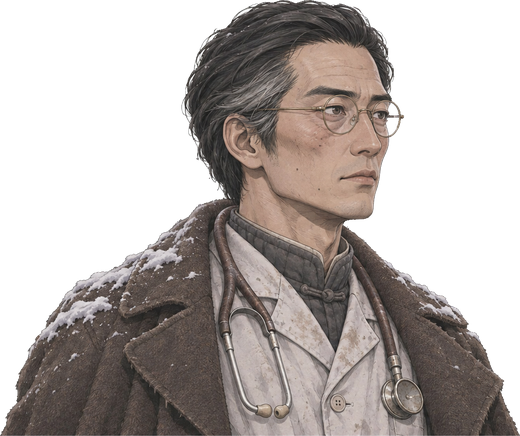
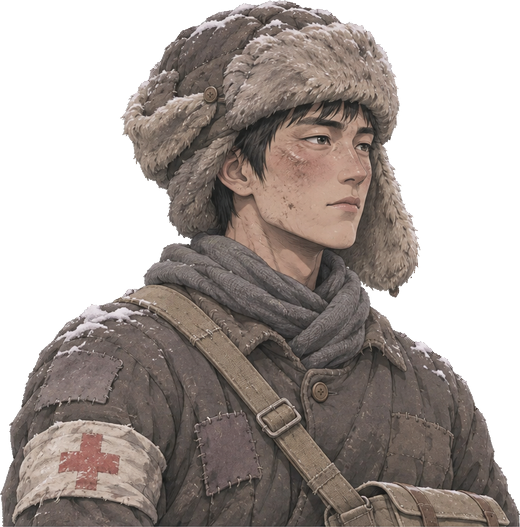
第二、三章的休息/商店/事件/宝箱背景换成各章自己的场景；第二、三章结尾插画；真结局插画和参谋两形态的图先入库；手榴弹图标重画；金永哲立绘改成 25 岁卫生员，诊所事件文字和图鉴对齐
Claude-Session: https://claude.ai/code/session_015MetZnK2ffi84fWjnTuGS9

diff --git a/src/game.js b/src/game.js
@@ -369,7 +369,7 @@ const INTRO = [
   { img: 'assets/story/s2_camp.jpg', t: '辗转月余，到了吉东山地，接上了密营。灶火边，老沈摊开手绘的地图：最终目标是长春——伪满洲国所谓的「新京」，关东军司令部就在那里。' },
   { img: 'assets/story/s3_depart.jpg', t: '下一程，向长白山北麓的林海雪原转进。日伪讨伐队正在搜山。神枪手韩松，代号「雪貂」，走在队伍最前面。' }];
 /* 各章结尾的插画（第一章：沿着铁路向新京去） */
-const OUTRO = { 1: 'assets/story/s4_south.jpg' };
+const OUTRO = { 1: 'assets/story/s4_south.jpg', 2: 'assets/story/s5_drain.jpg', 3: 'assets/story/s6_up.jpg' }; /* 真结局用 s7_dawn.jpg（真结局还没写） */
 /* 战役总图：开局和每章结束时显示。地名用代码叠在图上（不让 AI 画字） */
 const CAMP = [{ n: '第一章 · 林海雪原', t: '1944 年冬', x: 69.4, y: 39.1 }, { n: '第二章 · 新京', t: '1945 年春', x: 39.7, y: 70.7 }, { n: '第三章 · 地下', t: '1945 年 8 月', x: 32.7, y: 71 }];
 function campaign(ch, done, note) {
@@ -524,7 +524,7 @@ const BOSS_TALK = {
   captain: [['boss', '（日语）雪地上的脚印骗不了人。你们这些「匪贼」，今天一个也走不掉。'], ['hero', '我们不是匪。'], ['hero', '这片林子，是我们的。']],
   kcap: [['boss', '（日语）你们走过的每个屯子，我都去过了。总有人会开口。'], ['boss', '——把狗放出去。'], ['hero', '那你也该听说了：我们从来不跑。']],
 };
-const LIHUI = { captain: 'assets/portraits/captain_lihui.png', priest: 'assets/portraits/priest_lihui.png', kirino: 'assets/portraits/kirino_lihui.png', kuga: 'assets/portraits/kuga_lihui.png' };
+const LIHUI = { captain: 'assets/portraits/captain_lihui.png', priest: 'assets/portraits/priest_lihui.png', kirino: 'assets/portraits/kirino_lihui.png', kuga: 'assets/portraits/kuga_lihui.png', staff: 'assets/portraits/staff_lihui.png' };
 /* 第二章首领的开战对白 */
 Object.assign(BOSS_TALK, {
   kirino: [['boss', '（日语）新京有四十万人。每一个人，我都可以叫来问话。'], ['boss', '——你们，也不例外。'], ['hero', '那你问吧。'], ['hero', '我只会说一句：这是中国的地方。']],
@@ -916,7 +916,7 @@ function lootScreen() {
   const P = R.pending;
   if (!P || P.t !== 'loot') return mapScreen();
   if (P.relic) { gainRelic(P.relic, 1); P.relicShown = P.relic; delete P.relic; } if (P.item) { if (R.items.length < ITEM_SLOTS) { R.items.push(P.item); see('i:' + P.item); teach('item'); } P.itemShown = P.item; delete P.item; } save();
-  view.innerHTML = `<div class="bg ${P.kind === 'boss' ? 'ev' : 'battle dim'}"></div>${topBar()}`; bindTop();
+  view.innerHTML = `<div class="bg ${P.kind === 'boss' ? 'ev ch' + CH().id : 'battle dim'}"></div>${topBar()}`; bindTop();
   if (P.cards) {
     view.insertAdjacentHTML('beforeend', `<div class="panel loot"><h2>${P.kind === 'boss' ? (SUS() ? '打垮了追捕！' : '击溃了讨伐队！') : P.kind === 'elite' ? '打退了精英！' : '战斗胜利'}</h2>
      <p>缴获口粮 +${P.food || 1}${P.strong ? (P.intel ? (SUS() ? '　📜 抢下了公文包，得到一份情报' : '　📜 抢下了档案箱，得到一份情报') : (SUS() ? '　公文包被带走了，这份情报没拿到' : '　档案箱被带走了，这份情报没拿到')) : ''}${P.sus ? `　🕵 枪声惊动了巡警：可疑度 +${P.sus[0]}${P.sus[1] ? `（开了 ${P.sus[1]} 枪）` : ''}` : ''}</p>${P.relicShown ? `<p class="gain">得到随身物品：${RELICS[P.relicShown].icon} <b>${RELICS[P.relicShown].name}</b>　<small>${RELICS[P.relicShown].desc}</small></p>` : ''}${P.itemShown ? `<p class="gain">缴获背包用品：${ITEMS[P.itemShown].icon} <b>${ITEMS[P.itemShown].name}</b>${R.items.includes(P.itemShown) ? '' : '（背包满了，没拿）'}</p>` : ''}<p class="sub">${P.kind === 'boss' ? '选一张稀有牌加入牌组：' : '选一张牌加入牌组：'}</p><div class="row">${P.cards.map((c, i) => cardHTML(c, '', `data-k="${i}"`)).join('')}</div>
@@ -942,7 +942,7 @@ function offerLoot(id, done) {
 function restScreen() {
   teach('rest');
   R.temp = TEMP_MAX; if (SUS()) R.sus = 0; if (SAN() && !R.pending.sanDone) { addSan(3); R.pending.sanDone = 1; } save(); const heal = Math.floor(R.maxHp * .3) + rsum('restHeal'); refreshScreen = restScreen;
-  view.innerHTML = `<div class="bg rest"></div>${topBar()}<div class="panel"><h2>${placeName('rest')}</h2><p>${placeText('rest', '林子深处的地窨子，灶里的火压得很低。体温回满了。')}</p>
+  view.innerHTML = `<div class="bg rest ch${CH().id}"></div>${topBar()}<div class="panel"><h2>${placeName('rest')}</h2><p>${placeText('rest', '林子深处的地窨子，灶里的火压得很低。体温回满了。')}</p>
     <div class="col"><button class="btn" id="r_heal">休息：回复 ${heal} 生命</button><button class="btn" id="r_up">擦枪：升级 1 张牌</button></div></div>`;
   bindTop();
   $('#r_heal').onclick = () => { R.hp = Math.min(R.maxHp, R.hp + heal); mapScreen(); };
@@ -976,7 +976,7 @@ function eventScreen(force) {
     san: n => { addSan(n); sanN += n; }, curse: () => { R.deck.push(mk('it_curse')); see('c:it_curse'); }, lure: n => { R.lure = (R.lure || 0) + n; },
     they: (n, f, fin) => they(n, f, fin), aweN: () => R.awe || 0, say: () => {} };
   const draw = () => {
-    view.innerHTML = `<div class="bg ev"></div>${ev.pic ? `<img class="evpic" src="${ev.pic}" alt="">` : ''}${topBar()}<div class="panel evp"><h2>${ev.title}</h2><p>${ev.text}</p><div class="col">${ev.opts.map((o, i) => { const ok = !o.need || o.need(G); return `<button class="btn opt" data-o="${i}" ${ok ? '' : 'disabled'}>${o.t}${String(o.f).includes('awe(') ? '<small class="awetag">敬畏</small>' : ''}${ok ? '' : '（条件不够）'}</button>`; }).join('')}</div></div>`;
+    view.innerHTML = `<div class="bg ev ch${CH().id}"></div>${ev.pic ? `<img class="evpic" src="${ev.pic}" alt="">` : ''}${topBar()}<div class="panel evp"><h2>${ev.title}</h2><p>${ev.text}</p><div class="col">${ev.opts.map((o, i) => { const ok = !o.need || o.need(G); return `<button class="btn opt" data-o="${i}" ${ok ? '' : 'disabled'}>${o.t}${String(o.f).includes('awe(') ? '<small class="awetag">敬畏</small>' : ''}${ok ? '' : '（条件不够）'}</button>`; }).join('')}</div></div>`;
     bindTop();
     view.querySelectorAll('[data-o]').forEach(b => b.onclick = () => {
       const msg = ev.opts[+b.dataset.o].f(G); save();
@@ -1001,7 +1001,7 @@ function shopScreen() {
   if (!P.stock) { P.stock = { cards: [...rollCards(3).map(c => ({ c, price: 2 })), { c: mk(rollColorless()), price: 3 }], item: { id: rollItem(), price: 2 }, relic: { id: rollRelic({ c: 40, u: 40, r: 20 }), price: 5 }, remove: 3 }; save(); }
   const S = P.stock; refreshScreen = shopScreen;
   const pr = (n, sold) => sold ? '<span class="price no">已换</span>' : `<span class="price ${R.food < n ? 'no' : ''}">🍞 ${n}</span>`;
-  view.innerHTML = `<div class="bg shop"></div>${topBar()}<div class="panel shop wide"><h2>${placeName('shop')}</h2><p>${placeText('shop', '一个赶爬犁的老乡在林边歇脚。他不要钱，只想换点吃的。')}</p>
+  view.innerHTML = `<div class="bg shop ch${CH().id}"></div>${topBar()}<div class="panel shop wide"><h2>${placeName('shop')}</h2><p>${placeText('shop', '一个赶爬犁的老乡在林边歇脚。他不要钱，只想换点吃的。')}</p>
     <div class="row">${S.cards.map((x, i) => `<div class="shopitem ${x.sold ? 'sold' : ''}" data-buy="c${i}">${cardHTML(x.c)}${pr(x.price, x.sold)}</div>`).join('')}
       ${S.item.id ? `<div class="shopitem rel ${S.item.sold ? 'sold' : ''}" data-buy="item"><b class="big">${ITEMS[S.item.id].icon}</b><b>${ITEMS[S.item.id].name}</b><small>${ITEMS[S.item.id].desc}</small>${pr(S.item.price, S.item.sold)}</div>` : ''}
       ${S.relic.id ? `<div class="shopitem rel ${S.relic.sold ? 'sold' : ''}" data-buy="relic"><b class="big">${RELICS[S.relic.id].icon}</b><b>${RELICS[S.relic.id].name}</b><small>${RELICS[S.relic.id].desc}</small>${pr(S.relic.price, S.relic.sold)}</div>` : ''}
@@ -1025,7 +1025,7 @@ function treasureScreen() {
   teach('treasure');
   const P = R.pending; if (!P.relic && !P.taken) { P.relic = rollRelic(); save(); } refreshScreen = treasureScreen;
   const r = RELICS[P.relic];
-  view.innerHTML = `<div class="bg treasure"></div>${topBar()}<div class="panel wide"><h2>${placeName('treasure')}</h2><p>${placeText('treasure', '树上刻着约好的记号。扒开积雪，底下埋着一个油布包。')}</p>
+  view.innerHTML = `<div class="bg treasure ch${CH().id}"></div>${topBar()}<div class="panel wide"><h2>${placeName('treasure')}</h2><p>${placeText('treasure', '树上刻着约好的记号。扒开积雪，底下埋着一个油布包。')}</p>
     ${r ? `<div class="relicbig"><b class="big">${r.icon}</b><b>${r.name}</b><p>${r.desc}</p></div><br><button class="btn" id="tr_take">收下</button>` : '<p class="sub">里面是空的。</p><button class="btn" id="tr_take">继续</button>'}</div>`;
   bindTop();
   $('#tr_take').onclick = () => { if (r) gainRelic(P.relic); P.taken = 1; mapScreen(); };
@@ -1036,7 +1036,7 @@ function bossRelicScreen() {
   const P = R.pending, opts = (P.opts || []).filter(id => RELICS[id]);
   const finish = () => { R.pending = { t: 'actend' }; save(); actEnd(); };
   if (!opts.length) return finish();
-  view.innerHTML = `<div class="bg ev"></div>${topBar()}<div class="panel wide"><h2>${SUS() ? "缴获追捕者的东西" : "缴获讨伐队的东西"}</h2><p class="sub">选一件带走（Boss 物品，下一章开始生效）</p>
+  view.innerHTML = `<div class="bg ev ch${CH().id}"></div>${topBar()}<div class="panel wide"><h2>${SUS() ? "缴获追捕者的东西" : "缴获讨伐队的东西"}</h2><p class="sub">选一件带走（Boss 物品，下一章开始生效）</p>
     <div class="row">${opts.map(id => `<div class="relicbig pick" data-r="${id}"><b class="big">${RELICS[id].icon}</b><b>${RELICS[id].name}</b><p>${RELICS[id].desc}</p></div>`).join('')}</div><button class="btn ghost" id="br_skip">都不要</button></div>`;
   bindTop();
   view.querySelectorAll('[data-r]').forEach(el => el.onclick = () => { gainRelic(el.dataset.r); finish(); });

diff --git a/src/content/ch2.js b/src/content/ch2.js
@@ -130,10 +130,10 @@ export const EVENTS_CH2 = [
       { t: '吃口热乎的，歇一歇（生命 +10，口粮 +1）', f: G => { G.heal(10); G.food(1); G.flag('xing'); G.they('邢二嫂', '豆腐坊掌柜，交通线上的人'); return '豆腐里拌了辣椒油。你好久没吃过热乎饭了。'; } },
       { t: '请她帮忙把风声压下去（可疑度 -3）', f: G => { G.sus(-3); G.flag('xing'); G.they('邢二嫂', '豆腐坊掌柜，替你压下了风声'); return '第二天，巡警在城南抓了个「形迹可疑」的醉汉，案子就这么结了。'; } },
     ] },
-  { id: 'clinic', title: '朝鲜族大夫', text: '胡同深处有间小诊所，大夫叫金永哲，延边人，懂西医。他看了一眼你袖子上的血，什么也没问，把门插上了。',
+  { id: 'clinic', title: '朝鲜族卫生员', text: '胡同深处有间小诊所，是地下交通线上的一个点。坐堂的是个年轻人，叫金永哲，延边人，抗联派进城的卫生员，懂一点西医。他看了一眼你袖子上的血，什么也没问，把门插上了。',
     opts: [
-      { t: '让他治伤（生命 +15，可疑度 +1：有人看见你进去）', f: G => { G.heal(15); G.sus(1); G.flag('kim'); G.they('金永哲', '延边来的大夫，给你缝了伤口'); return '他手很稳。缝完最后一针，他说：「我哥哥在那边的部队里。我在这边。」'; } },
-      { t: '问他为什么帮你（得到山野草药）', f: G => { G.relic('herbs'); G.flag('kim'); G.they('金永哲', '延边来的大夫，给了你一包草药'); return '「有人问我，你们朝鲜人到底帮谁。」他把一包草药塞给你，「我帮受伤的人。」'; } },
+      { t: '让他治伤（生命 +15，可疑度 +1：有人看见你进去）', f: G => { G.heal(15); G.sus(1); G.flag('kim'); G.they('金永哲', '抗联派进城的卫生员，给你缝了伤口'); return '他手很稳。缝完最后一针，他说：「我哥哥在那边的部队里。我在这边。」'; } },
+      { t: '问他为什么帮你（得到山野草药）', f: G => { G.relic('herbs'); G.flag('kim'); G.they('金永哲', '抗联派进城的卫生员，给了你一包草药'); return '「有人问我，你们朝鲜人到底帮谁。」他把一包草药塞给你，「我帮受伤的人。」'; } },
     ] },
   { id: 'labor', title: '抓劳工', text: '街口停了两辆卡车，伪满巡警拿着名单挨家挨户抓人去「出劳工」。一个半大孩子被拽着胳膊往车上拖，他娘跪在地上。',
     opts: [

diff --git a/src/content/ch3.js b/src/content/ch3.js
@@ -114,7 +114,7 @@ export const ENEMIES_CH3 = {
 Object.entries(ENEMIES_CH3).forEach(([k, d]) => { d.key = k; });
 
 /* 帧图尺寸（切图脚本算出来的：画布宽高、脚底锚点、站立姿势宽高） */
-export const FRAMES_CH3 = { escort3: { cw: 415, ch: 280, ax: 169, sw: 253, sh: 277 }, sapper: { cw: 432, ch: 187, ax: 248, sw: 267, sh: 158 }, kguard: { cw: 404, ch: 293, ax: 156, sw: 140, sh: 274 },
+export const FRAMES_CH3 = { staff: { cw: 298, ch: 259, ax: 132, sw: 82, sh: 249 }, wargod: { cw: 312, ch: 320, ax: 127, sw: 187, sh: 317 }, /* 真结局的参谋和「军神」，真结局写代码时接上 */ escort3: { cw: 415, ch: 280, ax: 169, sw: 253, sh: 277 }, sapper: { cw: 432, ch: 187, ax: 248, sw: 267, sh: 158 }, kguard: { cw: 404, ch: 293, ax: 156, sw: 140, sh: 274 },
   shrineguard: { cw: 468, ch: 190, ax: 220, sw: 301, sh: 187 }, burner: { cw: 453, ch: 199, ax: 232, sw: 117, sh: 197 },
   shadow: { cw: 371, ch: 207, ax: 238, sw: 198, sh: 203 }, echo: { cw: 392, ch: 208, ax: 261, sw: 112, sh: 206 },
   mask: { cw: 475, ch: 207, ax: 299, sw: 228, sh: 205 }, it: { cw: 560, ch: 183, ax: 328, sw: 450, sh: 170 },

diff --git a/index.html b/index.html
@@ -389,6 +389,7 @@ i.echo{color:#b8a0d0}.fxn.heal{color:#7ee08a}.nohp.civ{color:#d8d0b0;line-height
 .pile::after,.shopitem.rel::after{content:'';position:absolute;inset:0;z-index:-1;border-image:url(assets/ui/panel.png) 70 / 16px stretch;pointer-events:none}
 .shopitem.rel{padding:16px 14px}.pile{color:#e0d0a8}.pile:hover::after,.shopitem.rel:hover::after{filter:brightness(1.25)}
 .card.t-curse .frame{filter:grayscale(.9) brightness(.5) sepia(.4) hue-rotate(-25deg)}.card.t-status .frame{filter:grayscale(1) brightness(.75)}
+.bg.rest.ch2{background-image:url(assets/bg/rest_ch2.jpg)}.bg.shop.ch2{background-image:url(assets/bg/shop_ch2.jpg)}.bg.ev.ch2{background-image:url(assets/bg/ev_ch2.jpg)}.bg.treasure.ch2{background-image:url(assets/bg/treasure_ch2.jpg)}.bg.rest.ch3{background-image:url(assets/bg/rest_ch3.jpg)}.bg.shop.ch3{background-image:url(assets/bg/shop_ch3.jpg)}.bg.ev.ch3{background-image:url(assets/bg/ev_ch3.jpg)}.bg.treasure.ch3{background-image:url(assets/bg/treasure_ch3.jpg)}.tbg.endwin{background-image:url(assets/story/s6_up.jpg)}
 </style>
 </head>
 <body>
